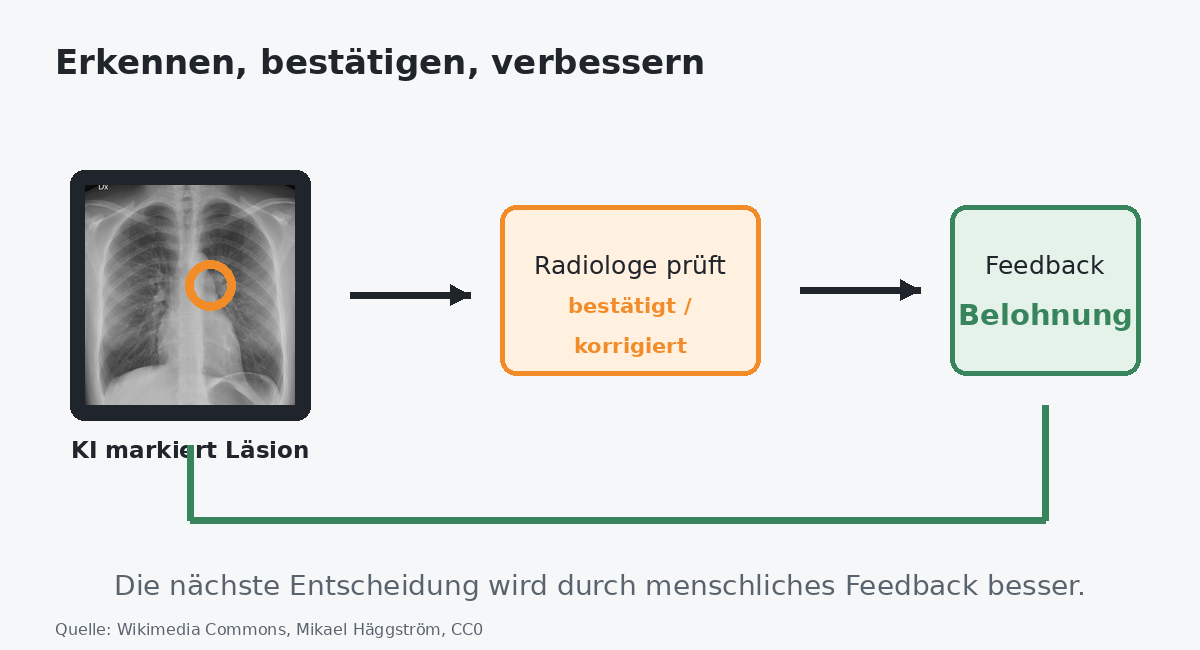
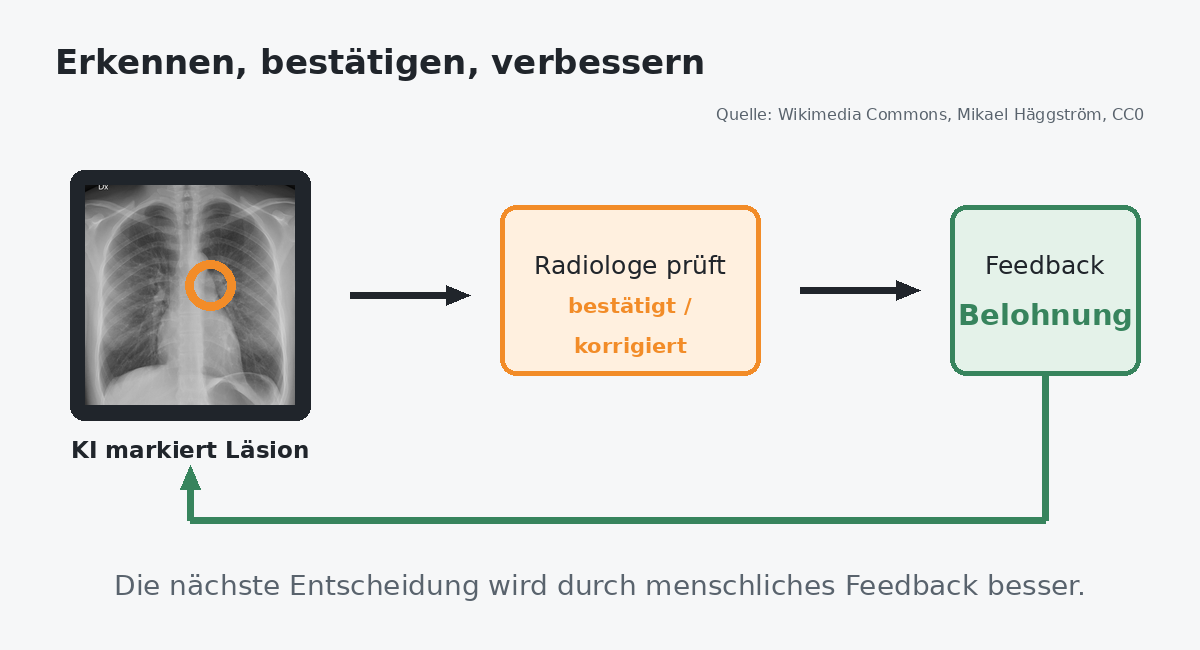
improve lernarten slides

diff --git a/2-content/images/generate_schemas.py b/2-content/images/generate_schemas.py
@@ -24,25 +24,27 @@ def text(draw, xy, value, size=24, fill=INK, bold=False, anchor=None):
     draw.text(xy, value, font=font(size, bold), fill=fill, anchor=anchor)
 
 def arrow(draw, start, end, fill=INK, width=7):
-    draw.line([start, end], fill=fill, width=width)
     x1, y1 = start
     x2, y2 = end
     import math
     angle = math.atan2(y2-y1, x2-x1)
-    points = []
-    for delta in (2.65, -2.65):
-        points.append((x2 + 22*math.cos(angle+delta), y2 + 22*math.sin(angle+delta)))
-    draw.polygon([end, points[0], points[1]], fill=fill)
+    head_length = 24
+    head_width = 10
+    base = (x2 - head_length*math.cos(angle), y2 - head_length*math.sin(angle))
+    draw.line([start, base], fill=fill, width=width)
+    side_a = (base[0] + head_width*math.sin(angle), base[1] - head_width*math.cos(angle))
+    side_b = (base[0] - head_width*math.sin(angle), base[1] + head_width*math.cos(angle))
+    draw.polygon([end, side_a, side_b], fill=fill)
 
-def xray(im, draw, box, label=None, border=INK, source=None):
+def xray(im, draw, box, label=None, border=INK, source=None, inset=15):
     x, y, w, h = box
     draw.rounded_rectangle((x, y, x+w, y+h), radius=14, fill=border)
-    inner = (x+15, y+15, x+w-15, y+h-15)
+    inner = (x+inset, y+inset, x+w-inset, y+h-inset)
     cx = x+w/2
     if source:
         source_image = Image.open(OUT / source).convert("RGB")
-        source_image = ImageOps.fit(source_image, (w-30, h-30), method=Image.Resampling.LANCZOS)
-        im.paste(source_image, (x+15, y+15))
+        source_image = ImageOps.fit(source_image, (w-2*inset, h-2*inset), method=Image.Resampling.LANCZOS)
+        im.paste(source_image, (x+inset, y+inset))
     else:
         draw.rectangle(inner, fill=(125, 136, 145))
         draw.ellipse((cx-65, y+45, cx-5, y+h-35), fill=(48, 56, 65))
@@ -59,12 +61,19 @@ def base(title):
 
 def unsupervised():
     im, d = base("Röntgenbilder ohne Labels")
-    xray(im, d, (55, 145, 190, 230), "Aufnahmen", INK, "chest-xray-normal.jpg")
-    arrow(d, (280, 260), (405, 260)); text(d, (342, 220), "Merkmale", 22, MUTED, False, "mm")
-    d.line((465, 475, 1080, 475), fill=(154,164,173), width=3); d.line((520, 530, 520, 105), fill=(154,164,173), width=3)
-    text(d, (1010, 510), "Merkmal 1", 22, MUTED); text(d, (460, 100), "Merkmal 2", 22, MUTED)
-    text(d, (55, 620), "Quelle: Wikimedia Commons, Mikael Häggström, CC0", 16, MUTED)
-    clusters = [(BLUE, [(590,180),(640,145),(700,190),(670,225),(735,155),(620,235)], "Tumortyp A", (665,95)), (RED, [(590,360),(650,330),(700,390),(750,350),(680,420),(785,395)], "Tumortyp B", (685,505)), (GREEN, [(900,240),(950,200),(1010,260),(970,305),(1045,220),(920,300)], "Tumortyp C", (970,350))]
+    text(d, (55, 92), "Viele Aufnahmen -> ähnliche Bildmerkmale -> Cluster", 22, MUTED)
+    sources = ["chest-xray-normal.jpg", "chest-xray-bronchiolitis.jpg"]
+    for index in range(12):
+        column = index % 3
+        row = index // 3
+        xray(im, d, (55 + column*78, 135 + row*96, 62, 78), None, INK, sources[index % 2], inset=6)
+    text(d, (160, 535), "unbeschriftete Aufnahmen", 18, MUTED, False, "mm")
+    arrow(d, (300, 285), (405, 285)); text(d, (352, 245), "Merkmale", 22, MUTED, False, "mm")
+    d.line((465, 475, 1080, 475), fill=(154,164,173), width=3); d.line((520, 530, 520, 115), fill=(154,164,173), width=3)
+    text(d, (975, 510), "Rundheit / Größe", 21, MUTED)
+    text(d, (535, 125), "Dichte / Homogenität", 18, MUTED)
+    text(d, (1145, 575), "Quellen: Wikimedia Commons, CC0; Di Nardo et al., CC BY 2.0", 14, MUTED, False, "ra")
+    clusters = [(BLUE, [(625,230),(675,195),(735,240),(705,275),(770,205),(655,285)], "A: Rundherd", (690,315)), (RED, [(625,410),(685,380),(735,440),(785,400),(715,470),(820,445)], "B: spikulierte Läsion", (685,505)), (GREEN, [(935,290),(985,250),(1045,310),(1005,355),(1080,270),(955,350)], "C: diffuses Muster", (970,400))]
     for color, points, label, pos in clusters:
         for point in points: d.ellipse((point[0]-10, point[1]-10, point[0]+10, point[1]+10), fill=color)
         text(d, pos, label, 25, color, True, "mm")
@@ -72,23 +81,49 @@ def unsupervised():
 
 def supervised():
     im, d = base("Bild + Expertenlabel = Lernbeispiel")
-    xray(im, d, (60, 155, 210, 245), "Röntgenbild", INK, "chest-xray-normal.jpg")
-    arrow(d, (305, 275), (425, 275))
-    d.rounded_rectangle((450,190,700,335), radius=16, fill=(220,236,247), outline=BLUE, width=5)
-    text(d, (575,240), "Expertenlabel", 24, INK, False, "mm"); text(d, (575,290), "unauffällig", 30, BLUE, True, "mm")
-    arrow(d, (735,275), (850,275))
-    d.rounded_rectangle((875,190,1135,335), radius=16, fill=(236,239,241), outline=INK, width=5)
-    text(d, (1005,240), "KI lernt", 24, INK, False, "mm"); text(d, (1005,290), "Bild -> Antwort", 27, INK, True, "mm")
-    text(d, (600,500), "Label kann auch Organ, Modalität oder Tumorart sein.", 27, MUTED, False, "mm")
-    text(d, (55, 620), "Quelle: Wikimedia Commons, Mikael Häggström, CC0", 16, MUTED)
+    xray(im, d, (60, 120, 165, 170), "Bild A", INK, "chest-xray-normal.jpg")
+    arrow(d, (255, 205), (340, 205))
+    d.rounded_rectangle((365,155,635,315), radius=16, fill=(220,236,247), outline=BLUE, width=5)
+    text(d, (500,205), "Expertenlabel", 23, INK, False, "mm")
+    text(d, (500,265), "unauffällig", 29, BLUE, True, "mm")
+    xray(im, d, (60, 350, 165, 170), "Bild B", INK, "chest-xray-bronchiolitis.jpg")
+    arrow(d, (255, 435), (340, 435))
+    d.rounded_rectangle((365,375,635,545), radius=16, fill=(255,240,223), outline=ORANGE, width=5)
+    text(d, (500,420), "Expertenlabel", 23, INK, False, "mm")
+    text(d, (500,470), "Beispiel-Label:", 23, ORANGE, True, "mm")
+    text(d, (500,510), "Lungenkarzinom", 23, ORANGE, True, "mm")
+    arrow(d, (680,350), (790,350))
+    d.rounded_rectangle((815,260,1125,440), radius=16, fill=(236,239,241), outline=INK, width=5)
+    text(d, (970,315), "KI lernt", 24, INK, False, "mm")
+    text(d, (970,365), "Bild -> Antwort", 27, INK, True, "mm")
+    text(d, (970,405), "aus vielen Beispielen", 19, MUTED, False, "mm")
+    text(d, (650,610), "Labels können auch Organ, Modalität oder Tumorart sein.", 25, MUTED, False, "mm")
+    text(d, (1145, 105), "Quellen: Wikimedia Commons, CC0; Di Nardo et al., CC BY 2.0", 16, MUTED, False, "ra")
     im.save(OUT / "supervised-schema.png")
 
 def semi():
-    im, d = base("Wenige geprüfte Bilder, viele offene Bilder")
-    positions = [(70,150, GREEN, "Label vorhanden"), (325,150, RED, "Label vorhanden"), (580,150, MUTED, "?"), (835,150, MUTED, "?")]
-    sources = ["chest-xray-normal.jpg", "chest-xray-bronchiolitis.jpg", "chest-xray-normal.jpg", "chest-xray-bronchiolitis.jpg"]
-    for (x,y,color,label), source in zip(positions, sources): xray(im, d, (x,y,205,220), label, color, source)
-    arrow(d, (180, 500), (1010, 500)); text(d, (600,555), "Die KI nutzt beide Gruppen zum Lernen.", 28, MUTED, False, "mm")
+    im, d = base("Wenige Labels, viele offene Aufnahmen")
+    text(d, (55, 92), "Geprüfte Beispiele + ungelabelte Daten", 22, MUTED)
+    xray(im, d, (70, 145, 170, 150), None, GREEN, "chest-xray-normal.jpg")
+    xray(im, d, (280, 145, 170, 150), None, RED, "chest-xray-bronchiolitis.jpg")
+    text(d, (155, 320), "Label: normal", 17, GREEN, True, "mm")
+    text(d, (365, 320), "Label: Befund", 17, RED, True, "mm")
+    xray(im, d, (70, 385, 170, 150), None, MUTED, "chest-xray-normal.jpg")
+    xray(im, d, (280, 385, 170, 150), None, MUTED, "chest-xray-bronchiolitis.jpg")
+    text(d, (155, 560), "ohne Label", 17, MUTED, True, "mm")
+    text(d, (365, 560), "ohne Label", 17, MUTED, True, "mm")
+    arrow(d, (475, 220), (575, 270)); arrow(d, (475, 455), (575, 365))
+    d.rounded_rectangle((590, 245, 815, 405), radius=16, fill=(236,239,241), outline=INK, width=5)
+    text(d, (702, 290), "KI-Modell", 27, INK, True, "mm")
+    text(d, (702, 335), "lernt aus beiden", 21, MUTED, False, "mm")
+    text(d, (702, 370), "Datengruppen", 21, MUTED, False, "mm")
+    arrow(d, (835, 325), (925, 325))
+    d.rounded_rectangle((940, 220, 1125, 430), radius=16, fill=(220,236,247), outline=BLUE, width=5)
+    text(d, (1032, 270), "Vorläufige", 22, BLUE, True, "mm")
+    text(d, (1032, 305), "Labels", 22, BLUE, True, "mm")
+    text(d, (1032, 350), "normal?", 20, INK, False, "mm")
+    text(d, (1032, 385), "Befund?", 20, INK, False, "mm")
+    text(d, (1145, 105), "Quellen: Wikimedia Commons, CC0; Di Nardo et al., CC BY 2.0", 15, MUTED, False, "ra")
     im.save(OUT / "semi-supervised-schema.png")
 
 def reinforcement():
@@ -103,9 +138,10 @@ def reinforcement():
     arrow(d, (800,290), (920,290))
     d.rounded_rectangle((950,205,1140,375), radius=16, fill=(228,242,233), outline=GREEN, width=5)
     text(d, (1045,265), "Feedback", 25, INK, False, "mm"); text(d, (1045,315), "Belohnung", 29, GREEN, True, "mm")
-    d.line((1045,405,1045,520,190,520,190,445), fill=GREEN, width=7)
+    d.line((1045,375,1045,520,190,520,190,480), fill=GREEN, width=7)
+    arrow(d, (190,495), (190,465), fill=GREEN, width=7)
     text(d, (600,585), "Die nächste Entscheidung wird durch menschliches Feedback besser.", 28, MUTED, False, "mm")
-    text(d, (55, 620), "Quelle: Wikimedia Commons, Mikael Häggström, CC0", 16, MUTED)
+    text(d, (1145, 105), "Quelle: Wikimedia Commons, Mikael Häggström, CC0", 16, MUTED, False, "ra")
     im.save(OUT / "reinforcement-schema.png")
 
 unsupervised(); supervised(); semi(); reinforcement()

diff --git a/2-content/content.tex b/2-content/content.tex
@@ -233,36 +233,25 @@
     \end{figure}
 \end{frame}
 
-\begin{frame}[plain]{Was ist ein lernendes System?}
+\begin{frame}[plain]{Was ist ein lernendes System? - Aufbau}
     \begin{figure}[hp]
     \centering
     \captionsetup{font=footnotesize}
     
-    \includegraphics[scale=.60]{2-content/images/evas.png}  
+    \includegraphics[scale=.7]{2-content/images/evas.png}  
     
-    \caption{\href{https://inf-schule.de/content/kids/3_computerinalltag/5_lernende-systeme/1_schritt1/evas.png}{Lernendes System: Eva}}
+    \caption{\href{https://inf-schule.de/content/kids/3_computerinalltag/5_lernende-systeme/1_schritt1/evas.png}{Lernendes System}}
     \end{figure}
 \end{frame}
 
-\begin{frame}[plain]{Was ist ein lernendes System?}
-    \begin{figure}[hp]
-    \centering
-    \captionsetup{font=footnotesize}
-    
-    \includegraphics[scale=.60]{2-content/images/evas.png}  
-    
-    \caption{\href{https://inf-schule.de/content/kids/3_computerinalltag/5_lernende-systeme/1_schritt1/evas.png}{Lernendes System: Eva}}
-    \end{figure}
-\end{frame}
-
-\begin{frame}[plain]
+\begin{frame}[plain]{Machine Learning - Lernarten}
     \begin{figure}[hp]
     \centering
     \captionsetup{font=scriptsize}
     
-    \includegraphics[scale=.5]{2-content/images/ml_fields.png}
-    
-    \caption{\href{https://databasecamp.de/ki/unsupervised-learning}{Unsupervised Learning}}
+    \includegraphics[scale=.4]{2-content/images/ml_fields.png}
+    \vspace{0.15em}
+    \caption*{\scriptsize\href{https://databasecamp.de/ki/unsupervised-learning}{Lernarten im Machine Learning}}
     \end{figure}
 \end{frame}
 
@@ -271,9 +260,86 @@
     \includegraphics[width=\textwidth]{2-content/images/unsupervised-schema.png}
 \end{frame}
 
+\begin{frame}[plain]{K-Means Clustering}
+    \begin{figure}[hp]
+    \centering
+    \captionsetup{font=scriptsize}
+
+    \includegraphics[scale=.3]{2-content/images/k-means.png}
+    \caption{\href{https://algorithms.dsainsights.com/Algorithms/MachineLearning/K-MeansClustering/K-MeansClustering.html}{K-Means Clustering}}
+    \end{figure}
+\end{frame}
+
+\begin{frame}[plain]{K-Means Segmentation: Brain MRI}
+    \begin{figure}[hp]
+    \centering
+    \captionsetup{font=scriptsize}
+
+    \includegraphics[scale=.3]{2-content/images/k-means-segmentation.png}
+    \caption{\href{https://www-sop.inria.fr/asclepios/cours/MVA/Notebooks/K-means\%20Brain\%20Segmentation.html}{K-Means Segmentation Brain}}
+    \end{figure}
+\end{frame}
+
+
 \begin{frame}[plain]{Supervised Learning}
     \centering
     \includegraphics[width=\textwidth]{2-content/images/supervised-schema.png}
+\end{frame}
+
+\begin{frame}[plain]{Supervised Learning - Beispiel: Penumonia Detection}
+    \begin{figure}[hp]
+    \centering
+    \captionsetup{font=footnotesize}
+    
+    \includegraphics[scale=.3]{2-content/images/supervised_learning_pneumonia.png}  
+    
+    \caption{\href{https://repository.uobaghdad.edu.iq/file/publication/pdf/d2b78057-9236-47e1-9034-eb35f81d7293.pdf}{AI Powered Pneumonia Detection}}
+    \end{figure}
+\end{frame}
+
+
+\begin{frame}[plain]{Traurig oder froh? - Erfahrungsschatz}
+    \begin{figure}[hp]
+    \centering
+    \captionsetup{font=footnotesize}
+    
+    \includegraphics[scale=.4]{2-content/images/erfahrungsschatz1.png}  
+    
+    \caption{\href{https://inf-schule.de/content/kids/3_computerinalltag/5_lernende-systeme/2_schritt2/erfahrungsschatz1.png}{Lernendes System: Eva - Erfahrungsschatz}}
+    \end{figure}
+\end{frame}
+
+\begin{frame}[plain]{Traurig oder froh? - Test}
+    \begin{figure}[hp]
+    \centering
+    \captionsetup{font=footnotesize}
+    
+    \includegraphics[scale=.4]{2-content/images/Lernendes_System_Zeichnung.png}  
+    
+    \caption{\href{https://inf-schule.de/kids/computerinalltag/lernende-systeme/schritt2}{Lernendes System: Eva - Test}}
+    \end{figure}
+\end{frame}
+
+\begin{frame}[plain]{Traurig oder froh? - Fehlende Erfahrung}
+    \begin{figure}[hp]
+    \centering
+    \captionsetup{font=footnotesize}
+    
+    \includegraphics[scale=.8]{2-content/images/froh180.png}  
+    
+    \caption{\href{https://inf-schule.de/content/kids/3_computerinalltag/5_lernende-systeme/3_schritt3/froh180.png}{Traurig oder froh? - Fehlende Erfahrung}}
+    \end{figure}
+\end{frame}
+
+\begin{frame}[plain]{Traurig oder froh? - Verbesserung mit neuer Kategorie: geht so}
+    \begin{figure}[hp]
+    \centering
+    \captionsetup{font=footnotesize}
+    
+    \includegraphics[scale=.8]{2-content/images/neut1.png}  
+    
+    \caption{\href{https://inf-schule.de/content/kids/3_computerinalltag/5_lernende-systeme/4_schritt4/neut1.png}{Traurig oder froh? - Mit neuer Kategorie: geht so}}
+    \end{figure}
 \end{frame}
 
 \begin{frame}[plain]{Semi-Supervised Learning}

diff --git a/1-title-page/custom.tex b/1-title-page/custom.tex
@@ -1,3 +1,4 @@
+{\setbeamertemplate{footline}{}
 \begin{frame}[noframenumbering,plain]
     \begin{tikzpicture}[remember picture, overlay]
         \fill[black] (current page.south west) rectangle ([xshift=4cm]current page.north west);
@@ -10,5 +11,6 @@
         \MyDate\par
     \endgroup
 \end{frame}
+}
 
 %edit as needed
